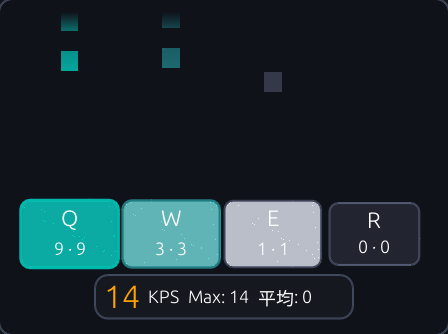
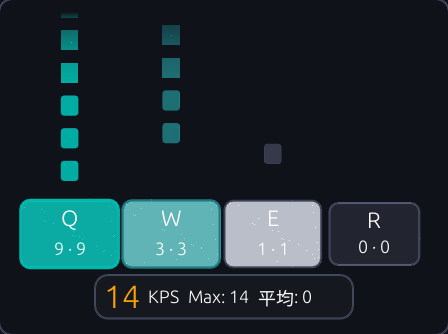
fix(kps): 键雨松手后继续上飘 + 修复矩形上下界写反导致下半段不显示
- 取样窗口从「走完轨道×1.5」改为固定 20 秒：长按超过窗口时按压区间被丢弃，
  导致松手瞬间整条雨消失（用户反馈的核心问题）
- 运动学对齐 JipperKeyViewer RawRain::UpdateLocation：front 持续推进、len 松手定格、
  前沿出顶后从底部裁短
- emit_bar 显式取 min/max：vis 越大屏幕 y 越小，Rect::from_min_max 写反时
  rect_filled 画出空矩形（Mesh 分支不剔除背面仍可见，表现为只有渐隐带处有条）
- 方块串 BLOCK_FILL 0.5 -> 0.62，块间连成串
- 更新 docs 下 5 张 KPS 截图与 README 键雨描述

diff --git a/src/gui/rain.rs b/src/gui/rain.rs
@@ -2,15 +2,22 @@
 //!
 //! 与 JipperKeyViewer 的差异：那边是 Unity 对象池 + 逐滴 Update；这里是 egui 立即模式，
 //! **不保存任何粒子状态** —— 每帧从 `KpsTracker::rain_spans` 拿「每个键最近的按压区间
-//! （按下距今 / 松开距今）」，按**纯几何**重建整条雨：
+//! （按下距今 / 松开距今）」，按**纯几何**重建整条雨。
 //!
-//! - **trail 生长竖条**（对齐 JipperKeyViewer 的 RainLayer）：从键格顶边向上长一条连续竖条，
-//!   前沿 = 按下至今的位移；松手后停在原处并按原速继续淡出。
-//! - **block 方块串**（对齐本项目用户截图里的样式）：按住期间以固定间距持续发射短方块，
-//!   串越按越长；松手停发，已发射的继续上飘。
+//! 两种样式都遵守同一个运动学（对齐 JipperKeyViewer 的 RawRain::UpdateLocation）：
+//!
+//! - `front = 按下至今秒数 × speed`：**前沿**（远端）距键格顶边的高度，只要时间在走就一直增大，
+//!   松手也不会停；
+//! - `len`：条的长度。按住期间 `len = front`（从键格一路长到前沿）；**松手那一刻定格**，
+//!   之后不再变长 —— 于是整条雨原速继续向上飘，这就是"松手不消失"的关键；
+//! - 可见区间 = `[front - len, front]` 与轨道 `[0, H]` 求交：前沿出顶后，条的**底部开始被裁**，
+//!   越来越短，直到整条出顶才消失（对齐 JipperKeyViewer 的 `sizeY = FinalSize.y - dropY + height`）。
+//!
+//! - **trail 生长竖条**：一条连续竖条（JipperKeyViewer 的 RainLayer 样式）。
+//! - **block 方块串**：按住期间每 `D` 像素发射一个短方块，`D` 固定，块本身也按 `speed` 上飘。
 //!
 //! 两种样式共用同一套坐标约定：
-//! - `travel = age × speed` 是前沿位移，`speed` 由「走完整个轨道要几毫秒」换算（换轨道高度不改观感）；
+//! - `speed` 由「走完整个轨道要几毫秒」换算（换轨道高度不改观感）；
 //! - 渐隐带固定在**轨道顶部 1/3**：进入 [2H/3, H] 后从满亮线性淡到 0，H 以上完全不可见；
 //! - 多排布局时第 2 排起逐排**变窄 + 加深一档**，所有排共用同一条轨道（轨道底边 = 第一排键格顶边）。
 //!
@@ -27,12 +34,17 @@ const BAR_W_MIN: f32 = 3.0;
 const BAR_W_MAX: f32 = 10.0;
 /// 方块串：条长 = 条宽 × 这个系数。
 const BAR_H_RATIO: f32 = 1.15;
-/// 方块串里条占间距的比例（剩下是缝）。
-const BLOCK_FILL: f32 = 0.5;
+/// 方块串里条占间距的比例（剩下是缝）：0.62 → 缝约 38%，块之间连成「串」而不是散点。
+const BLOCK_FILL: f32 = 0.62;
 /// 生长竖条的宽度系数（比方块略宽，看起来是"柱"）。
 const TRAIL_W_RATIO: f32 = 0.16;
 /// 每排键格的递进系数：第 2 排起宽度 ×0.85、颜色加深一档。
 const ROW_WIDTH_STEP: f32 = 0.85;
+/// 取样窗口（秒）。**故意给得远大于"走完一条轨道"**：
+/// 松手后的雨还要继续上飘、还要能被裁短，若窗口等于走完轨道的时间，
+/// 松手瞬间整条雨就会因为"按下太久"被丢掉 —— 那正是"松手即消失"的根因。
+/// 取 20 秒：即便速度为 20 秒/轨道这种极端值，条也早已飘出视野。
+const RAIN_SAMPLE_SECS: f32 = 20.0;
 
 /// 键雨轨道的像素高度（16~400；配置 0 = 自动 96px）。
 pub(crate) fn rain_area_h(cfg: &Config) -> f32 {
@@ -49,10 +61,9 @@ fn rain_px_per_sec(cfg: &Config) -> f32 {
     rain_area_h(cfg) / (travel_ms / 1000.0)
 }
 
-/// 取样窗口（秒）：比"走完一条轨道"再宽裕一点（松手前的尾巴 + 帧间隔抖动）。
-pub(crate) fn rain_lifespan_secs(cfg: &Config) -> f32 {
-    let travel_ms = cfg.kps_rain_speed.clamp(200, 20_000) as f32;
-    (travel_ms / 1000.0 * 1.5).clamp(0.3, 30.0)
+/// 取样窗口（秒）：固定一个远大于轨道穿越时间的值，剩余可见性全部交给几何裁剪。
+pub(crate) fn rain_lifespan_secs(_cfg: &Config) -> f32 {
+    RAIN_SAMPLE_SECS
 }
 
 /// 渐隐带高度：轨道顶部 1/3。
@@ -138,34 +149,41 @@ pub(crate) fn paint_kps_rain(
             let dim = row.min(3) as u32;
 
             for &(start_age, end_age) in spans {
-                // 前沿位移：从按下算起按固定速度推进；松手后公式不变，只是不再增长。
-                let travel = start_age as f32 * speed;
-                if travel <= 0.0 {
+                // 前沿：从按下算起按固定速度推进，**松手后继续推进**（这是"飘上去"的动力）。
+                let front = start_age as f32 * speed;
+                if front <= 0.0 {
                     continue;
                 }
+                // 按住时长（秒）：松手后 `start_age - end_age` 恒定 = 实际按住时长，
+                // 所以下面的 len 与发射长度都不会随时间漂移，雨条自然"定格上飘"。
+                let hold_s = if end_age <= 0.0 {
+                    start_age as f32
+                } else {
+                    (start_age - end_age).max(0.0) as f32
+                };
+                let hold_len = hold_s * speed;
+
                 if block_style {
-                    // —— 方块串：按住期间以固定间距持续发射 ——
+                    // —— 方块串：按住期间每 D 像素发射一块；块本身也按 speed 上飘 ——
                     let w = (box_w * BAR_W_RATIO).clamp(BAR_W_MIN, BAR_W_MAX) * step;
                     let bar_h = (w * BAR_H_RATIO).max(MIN_BAR_H);
                     let d = (bar_h / BLOCK_FILL).max(MIN_BAR_H + 2.0);
-                    // 发射窗口 = 按住期间前沿走过的位移
-                    let hold_len = if end_age <= 0.0 {
-                        travel
-                    } else {
-                        ((start_age - end_age) as f32 * speed).max(0.0)
-                    };
-                    let k_min = (((travel - h) / d).ceil() as i64).max(0);
-                    let k_max = (travel / d).floor() as i64;
-                    for kk in k_min..=k_max {
-                        // 第 kk 根在「按下后 kk×D」处发射；越过发射窗口的还没生成
-                        if kk as f32 * d > hold_len {
-                            continue;
-                        }
-                        let top_rise = travel - kk as f32 * d;
-                        if top_rise < 0.0 || top_rise >= h {
-                            continue;
-                        }
-                        let vis_top = top_rise.min(h);
+                    // 已发射的最大序号（松手后固定）
+                    let k_hi = (hold_len / d).floor() as i64;
+                    if k_hi < 0 {
+                        continue;
+                    }
+                    // 近端已飘出轨道顶的最小序号（随时间右移，块从底部被裁）
+                    let k_lo = (((front - h) / d).ceil() as i64).max(0);
+                    // 近端还在键格顶以上的最大序号
+                    let k_top = (front / d).floor() as i64;
+                    let (lo, hi) = (k_lo.max(0), k_hi.min(k_top));
+                    if hi < lo {
+                        continue;
+                    }
+                    for kk in lo..=hi {
+                        let top_rise = front - kk as f32 * d;
+                        let vis_top = top_rise.max(0.0);
                         let vis_bottom = (top_rise + bar_h).min(h);
                         if vis_bottom - vis_top < 0.5 {
                             continue;
@@ -175,17 +193,15 @@ pub(crate) fn paint_kps_rain(
                         );
                     }
                 } else {
-                    // —— 生长竖条：一条连续柱从前沿一直连到键格顶边 ——
+                    // —— 生长竖条：按住时长到前沿，松手后长度定格、整条继续上飘 ——
                     let w = (box_w * TRAIL_W_RATIO).clamp(BAR_W_MIN, BAR_W_MAX) * step;
-                    // 松手后长度定格在「松手那一刻的位移」
-                    let len = if end_age <= 0.0 {
-                        travel
-                    } else {
-                        ((start_age - end_age) as f32 * speed).max(MIN_BAR_H)
-                    };
-                    let seg_top = (travel - len).max(0.0);
-                    let vis_top = seg_top.min(h);
-                    let vis_bottom = travel.min(h);
+                    let len = hold_len.max(MIN_BAR_H);
+                    let near = (front - len).max(0.0);
+                    if near >= h {
+                        continue; // 整条已飘出轨道
+                    }
+                    let vis_top = near.min(h);
+                    let vis_bottom = front.min(h);
                     if vis_bottom - vis_top < 0.5 {
                         continue;
                     }
@@ -219,23 +235,27 @@ fn emit_bar(
     if alpha_top == 0 && alpha_bot == 0 {
         return;
     }
-    // 距轨道顶 → 屏幕 y（cell_top 是轨道底边，向上为负）
-    let y_top = cell_top - vis_top;
-    let y_bot = cell_top - vis_bottom;
+    // vis_* 是「距键格顶边的高度」：数值大的一端离**轨道顶**近，在屏幕上更靠上（y 更小）。
+    // Rect::from_min_max 要求 min <= max，而这里 vis 越大 y 越小，两者方向相反 ——
+    // 必须显式取 min/max，否则画出来是空矩形（rect_filled 直接不可见，
+    // 而 Mesh 分支因不剔除背面仍能看见，表现为「只有跨渐隐带的条才显示一半」）。
+    let y_a = cell_top - vis_top;
+    let y_b = cell_top - vis_bottom;
+    let (y_hi, y_lo) = (y_a.min(y_b), y_a.max(y_b));
     let (xl, xr) = (cx - w * 0.5, cx + w * 0.5);
     if alpha_top == alpha_bot {
         painter.rect_filled(
-            Rect::from_min_max(Pos2::new(xl, y_top), Pos2::new(xr, y_bot)),
+            Rect::from_min_max(Pos2::new(xl, y_hi), Pos2::new(xr, y_lo)),
             1.5,
             rain_color(heat, alpha_bot, dim),
         );
     } else {
         // 跨渐隐带：Mesh 顶点色做竖向渐变
         let mut mesh = egui::Mesh::default();
-        mesh.colored_vertex(Pos2::new(xl, y_top), rain_color(heat, alpha_top, dim));
-        mesh.colored_vertex(Pos2::new(xr, y_top), rain_color(heat, alpha_top, dim));
-        mesh.colored_vertex(Pos2::new(xl, y_bot), rain_color(heat, alpha_bot, dim));
-        mesh.colored_vertex(Pos2::new(xr, y_bot), rain_color(heat, alpha_bot, dim));
+        mesh.colored_vertex(Pos2::new(xl, y_a), rain_color(heat, alpha_top, dim));
+        mesh.colored_vertex(Pos2::new(xr, y_a), rain_color(heat, alpha_top, dim));
+        mesh.colored_vertex(Pos2::new(xl, y_b), rain_color(heat, alpha_bot, dim));
+        mesh.colored_vertex(Pos2::new(xr, y_b), rain_color(heat, alpha_bot, dim));
         mesh.add_triangle(0, 1, 2);
         mesh.add_triangle(1, 3, 2);
         painter.add(egui::Shape::mesh(mesh));

diff --git a/src/softshot.rs b/src/softshot.rs
@@ -2544,15 +2544,16 @@ mod tests {
                     app.debug_push_kps_hist(age);
                 }
             }
-            // 键雨 v2 喂**按压区间**：(按下距今 ms, 松开距今 ms)。None = 还按着。
-            // 速度 1200ms/轨道（96px ≈ 80px/s），0.8s 前沿能爬约 64px，层次刚好。
-            // 场景：Q 按住中（前沿贴键格、串持续生长）+ Q 两段历史按压（松手后整串上飘）
-            //      + W 一段长按已松 + E 一段短击 —— 覆盖三种形态。
+            // 键雨喂**按压区间**：(按下距今 ms, 松开距今 ms)。None = 还按着。
+            // 速度 1200ms/轨道（96px ≈ 80px/s），跑完一条轨道 1.2 秒。
+            // 场景覆盖三种形态：
+            //   Q 按住 3 秒仍不松 —— 前沿早已出顶，整条轨道被「已发射」的块铺满；
+            //   W 长按 1.4 秒、0.3 秒前松手 —— 长度定格，整串继续上飘（就是「松手不消失」）；
+            //   E 短击 0.1 秒、0.15 秒前松手 —— 一小段串在半空上飘。
             for (key, start, end) in [
-                ("Q", 2600u64, None),
-                ("Q", 1500, Some(1180)),
-                ("W", 1100, Some(600)),
-                ("E", 700, Some(560)),
+                ("Q", 3000u64, None),
+                ("W", 1400, Some(300)),
+                ("E", 250, Some(150)),
             ] {
                 app.debug_push_hold(key, start, end);
             }

diff --git a/README.md b/README.md
@@ -63,7 +63,7 @@
 - **设置**：历史保留天数、显示器物理尺寸、热力图键宽/键高/间距、**界面语言（跟随系统 / 中文 / English）**、窗口行为与**分时阈值**，保存立即生效（与统计列表同一套浅色风格，左右并排展开；设置表单按「历史数据 + 屏幕尺寸 / 键盘布局 / 语言 + 窗口 + 数据校验」**分三栏**排列，展开后高度更紧凑）；切换语言会同时更新窗口标题与托盘菜单，没有中文字体时中文自动回退英文并给出提示
 - **主流多配列键盘支持**：除标准 104 键外，原生支持 **98键（紧凑全尺寸）、87键（TKL）、84键（75%）、68键（65%）、64键（GK64）、60键** 等主流键盘配列切换与自适应画布，小配列下分时折线图与钟点控制紧凑排布；为 Fn 键分配独立按键定义（`FN_INDEX 104`），彻底解除与 Menu 键的绑定冲突；设置面板自适应防溢出，在各类小配列及中英双语下保持整洁排版
 - **实时 APM 与独立 HUD 胶囊悬浮窗**：高精度实时 APM 统计（滑动窗口 5~300 秒可调，**数值 = 窗口内的动作数**：60 秒窗口下点一次就是 1 APM，窗口调短也不会放大倍率）；采用独立多视口架构打造 **32 高、宽度贴合内容的超紧凑无边框置顶暗黑胶囊条**（显示项越多越宽，右侧不再留空），可与主程序无缝并存；显示实时 APM、今日最高峰值 APM 与今日敲击数（键盘 / 鼠标点击 / 移动距离三项可在设置里逐项开关）。**胶囊条本身只有数据、没有任何按钮**：按住拖动移动、双击呼出主程序、**右键打开它自己的设置窗口**（统计窗口长度、显示项、**缩放 60~400%**、**限制在屏幕内**、不透明度、重置峰值、呼出主程序、关闭悬浮窗）。**KDE 下「置顶」由自动写入的 KWin 规则强制生效**（Wayland 没有置顶协议，winit 的 `always_on_top` 是空实现），非 KDE 的 Wayland 桌面只能保持普通窗口层级
-- **KPS 手速与按键发光监控悬浮窗**：参照 `osu-kps` 与 `KeysPerSecond` 实现的独立置顶透明悬浮窗；**KPS 速率只统计设置里监控的那些键**（打字与其它按键不会把数字抬起来，单键累计次数照旧各键各记）；提供**按住保持点亮 + 松开 50→250ms 淡出**的按键发光反馈（对齐 osu-kps 的 down/up 动画，**长按期间不会中途熄灭**）、**每个键格同时显示该键的累计次数与它自己的 KPS**、实时 KPS 速率、Max 峰值、平均 KPS（自上次重置起的会话平均，对齐 KeysPerSecond 的 AVG 计数器）与动态速率变色阶（**键格颜色对齐 osu-kps 的两条动画**：边框色相按该键自己的 KPS 经 2→4 次/秒的 sigmoid 插值渐入，按压频率降下来时沿原路缓慢退回；底板在按下瞬间亮起、随后 50→250ms 淡出——慢速按下闪浅灰、高速按下闪青绿）。**布局是可自由组合的几块 —— 键雨 / 键位 / 数据 / 分组 / 图**：最上面是**按键雨**（对齐 JipperKeyViewer 的 RainLayer，但这里是**无状态几何重建**：每帧从「每个键的按压区间」直接算出整条雨，按住期间**持续发射**、松手即停，已升起的整条继续按原速上飘；两种样式——**生长竖条**从键格顶边向上长成连续一根、松手后长度定格并淡出，或**方块串**把连续按压按固定间距切成一块块短方块往上串；渐隐带固定在**轨道顶部 1/3**（进入后线性淡到 0）；速度配置的是**走完整个轨道要多少毫秒**（200~20000，默认 1200 —— 换轨道高度不改观感）、轨道高度 16~400 像素（默认 96）、不透明度 0~100%，多排键位时第 2 排起逐排变窄并压暗一档，所有排共用同一条轨道），再下面是键格（可多行；**每行缝隙等宽、按键左右对称**——两侧边距与键缝一样宽，右侧不会空出一大块；**按压弹跳**让按下的键格瞬间放大 7.5% 再回弹，对齐 JipperKeyViewer 的 KeyShapeLayer），中间一行数据（**当前 KPS · Max · 平均**，数字按实测宽度往后排，KPS 到两三位数也不会和标签挤在一起），**分组 KPS 行**（把键位任意拆组、逐组显示「组名 速率 KPS (次数)」，例如左手 A,S,D,F、右手 J,K,L,；——对齐 JipperKeyViewer 的 GroupId；写法是一行一组 `组名=键1,键2`，组名可省略），最下面是**整宽的 KPS 图**（KPS 与 APM 定位不同，窗口比胶囊条大得多）。**键雨与 KPS 图是两个互相独立的开关，四种组合都成立**：只开图 = osu-kps 式的经典柱状图；只开键雨 = JipperKeyViewer 式的纯击键轨迹；两者都开则既有瞬时轨迹也有历史趋势（信息量最高，是本项目的差异点）；都关则只留键格与数字，压缩成一条极简计时条。**KPS 图**（参照 osu-kps）：按**整秒分桶**的历史柱状图（每秒一根柱，峰值一秒后自然左移消失，不会拖尾）、叠一条平均线，悬停显示该时段内的最大 KPS，图时长可调（10~300 秒，默认 300）；**计算方式**可选 `硬算`（严格数统计窗口内的次数，稳定）或 `灵敏`（对齐 osu-kps：只看最近 2.5 秒、单次击键最多算 1.5，连击时贴近真实速率、停下来立刻回落）；**键格布局直接写在「监控按键」里**（零学习成本的一套小语法，设置窗口里是多行输入框）：**换行 = 分行**（不写换行时每行最多 12 个自动换行）；**空项 = 空位**（`,,H,J` 把 H、J 挪到第 3、4 列）；**数字前缀 = 宽度倍数**（`1.5H` 让 H 占 1.5 格、`4H` 占 4 格）；**自适应键宽**（可勾选开关）让**最后一行的键平分整行宽度 —— 如 5 格宽的行上放 `H,J`，两者各 2.5 格宽**。**缩放**（60~400%）与**限制在屏幕内**都在**它自己的设置窗口**里（右键悬浮窗打开）；**键位设置**参照 osu-kps：填「键数」N 后点「设置键位」，程序会依次记录你按下的 N 个键作为监控键（默认键位是 `qwertyuiopasdfghjklzxcvbnm` 的前 N 个，如 6 键 = q,w,e,r,t,y，也可以点「默认键位」一键恢复）；按键格子 / 统计信息 / KPS 图 / 按键雨 / 分组 KPS 五块可分别开关；**重置**是个下拉菜单（对齐 osu-kps）：可分别清空**按键总次数 / 最大 KPS / KPS 图**，或一键**以上所有**（平均 KPS 也从头算）。两个悬浮窗都会**静默记忆上次拖放的位置**（写进配置文件，重启 / 重新登录后回到原位，无设置项；「限制在屏幕内」开启时恢复的位置若在屏幕外会被自动推回）。位置记忆与屏幕内限制在 Windows / X11 / KDE Wayland 上可用（KDE 走 KWin 脚本通道），其它 Wayland 桌面因协议限制不可用。悬浮窗与其设置窗口的文字都是白色，深色底上看得清；不读取任何其它程序的窗口状态
+- **KPS 手速与按键发光监控悬浮窗**：参照 `osu-kps` 与 `KeysPerSecond` 实现的独立置顶透明悬浮窗；**KPS 速率只统计设置里监控的那些键**（打字与其它按键不会把数字抬起来，单键累计次数照旧各键各记）；提供**按住保持点亮 + 松开 50→250ms 淡出**的按键发光反馈（对齐 osu-kps 的 down/up 动画，**长按期间不会中途熄灭**）、**每个键格同时显示该键的累计次数与它自己的 KPS**、实时 KPS 速率、Max 峰值、平均 KPS（自上次重置起的会话平均，对齐 KeysPerSecond 的 AVG 计数器）与动态速率变色阶（**键格颜色对齐 osu-kps 的两条动画**：边框色相按该键自己的 KPS 经 2→4 次/秒的 sigmoid 插值渐入，按压频率降下来时沿原路缓慢退回；底板在按下瞬间亮起、随后 50→250ms 淡出——慢速按下闪浅灰、高速按下闪青绿）。**布局是可自由组合的几块 —— 键雨 / 键位 / 数据 / 分组 / 图**：最上面是**按键雨**（对齐 JipperKeyViewer 的 RainLayer，但这里是**无状态几何重建**：每帧从「每个键的按压区间」直接算出整条雨，按住期间**持续发射**、松手即停，已发射出去的部分**不停下**——长度定格后整条继续按原速上飘，前沿越过轨道顶后改从**底部**被逐段裁掉，直到整条出顶才消失（对齐 JipperKeyViewer 的 `sizeY = FinalSize.y - dropY + height`）；两种样式——**生长竖条**从键格顶边向上长成连续一根，或**方块串**把连续按压按固定间距切成一块块短方块往上串；渐隐带固定在**轨道顶部 1/3**（进入后线性淡到 0）；速度配置的是**走完整个轨道要多少毫秒**（200~20000，默认 1200 —— 换轨道高度不改观感）、轨道高度 16~400 像素（默认 96）、不透明度 0~100%，多排键位时第 2 排起逐排变窄并压暗一档，所有排共用同一条轨道），再下面是键格（可多行；**每行缝隙等宽、按键左右对称**——两侧边距与键缝一样宽，右侧不会空出一大块；**按压弹跳**让按下的键格瞬间放大 7.5% 再回弹，对齐 JipperKeyViewer 的 KeyShapeLayer），中间一行数据（**当前 KPS · Max · 平均**，数字按实测宽度往后排，KPS 到两三位数也不会和标签挤在一起），**分组 KPS 行**（把键位任意拆组、逐组显示「组名 速率 KPS (次数)」，例如左手 A,S,D,F、右手 J,K,L,；——对齐 JipperKeyViewer 的 GroupId；写法是一行一组 `组名=键1,键2`，组名可省略），最下面是**整宽的 KPS 图**（KPS 与 APM 定位不同，窗口比胶囊条大得多）。**键雨与 KPS 图是两个互相独立的开关，四种组合都成立**：只开图 = osu-kps 式的经典柱状图；只开键雨 = JipperKeyViewer 式的纯击键轨迹；两者都开则既有瞬时轨迹也有历史趋势（信息量最高，是本项目的差异点）；都关则只留键格与数字，压缩成一条极简计时条。**KPS 图**（参照 osu-kps）：按**整秒分桶**的历史柱状图（每秒一根柱，峰值一秒后自然左移消失，不会拖尾）、叠一条平均线，悬停显示该时段内的最大 KPS，图时长可调（10~300 秒，默认 300）；**计算方式**可选 `硬算`（严格数统计窗口内的次数，稳定）或 `灵敏`（对齐 osu-kps：只看最近 2.5 秒、单次击键最多算 1.5，连击时贴近真实速率、停下来立刻回落）；**键格布局直接写在「监控按键」里**（零学习成本的一套小语法，设置窗口里是多行输入框）：**换行 = 分行**（不写换行时每行最多 12 个自动换行）；**空项 = 空位**（`,,H,J` 把 H、J 挪到第 3、4 列）；**数字前缀 = 宽度倍数**（`1.5H` 让 H 占 1.5 格、`4H` 占 4 格）；**自适应键宽**（可勾选开关）让**最后一行的键平分整行宽度 —— 如 5 格宽的行上放 `H,J`，两者各 2.5 格宽**。**缩放**（60~400%）与**限制在屏幕内**都在**它自己的设置窗口**里（右键悬浮窗打开）；**键位设置**参照 osu-kps：填「键数」N 后点「设置键位」，程序会依次记录你按下的 N 个键作为监控键（默认键位是 `qwertyuiopasdfghjklzxcvbnm` 的前 N 个，如 6 键 = q,w,e,r,t,y，也可以点「默认键位」一键恢复）；按键格子 / 统计信息 / KPS 图 / 按键雨 / 分组 KPS 五块可分别开关；**重置**是个下拉菜单（对齐 osu-kps）：可分别清空**按键总次数 / 最大 KPS / KPS 图**，或一键**以上所有**（平均 KPS 也从头算）。两个悬浮窗都会**静默记忆上次拖放的位置**（写进配置文件，重启 / 重新登录后回到原位，无设置项；「限制在屏幕内」开启时恢复的位置若在屏幕外会被自动推回）。位置记忆与屏幕内限制在 Windows / X11 / KDE Wayland 上可用（KDE 走 KWin 脚本通道），其它 Wayland 桌面因协议限制不可用。悬浮窗与其设置窗口的文字都是白色，深色底上看得清；不读取任何其它程序的窗口状态
 - **托盘常驻**：统计 / 设置 / 开机启动 / 退出；点击托盘图标打开统计窗口
 - **只统计物理输入**：Windows 忽略注入输入（LLKHF_INJECTED），Linux 跳过 uinput 虚拟设备（与原版"区分真实模拟"一致）
 - **开机启动**：Windows 写注册表 Run 键，Linux 写 `~/.config/autostart/*.desktop`
